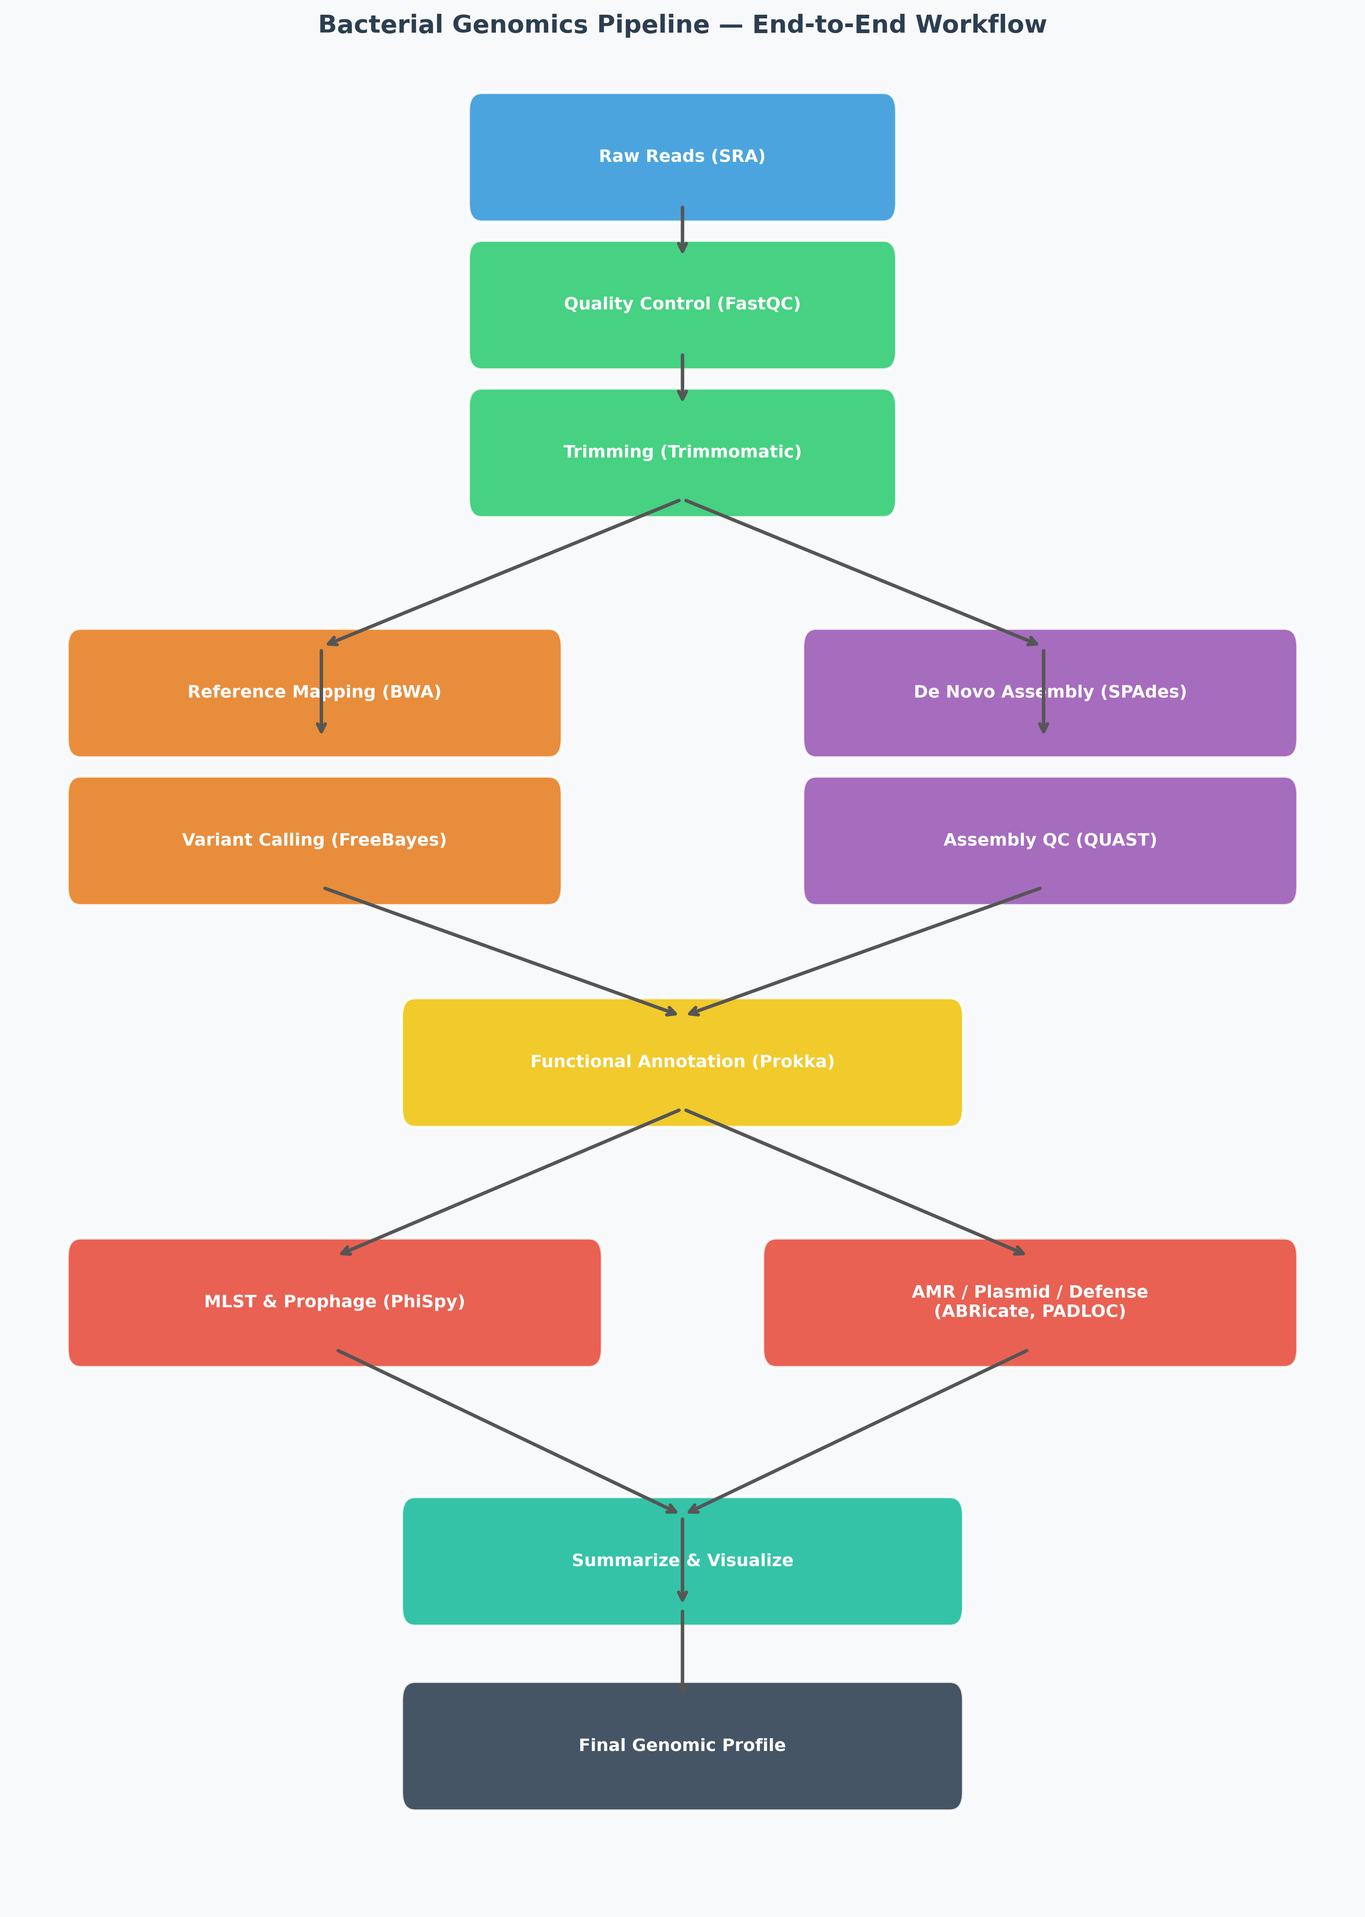
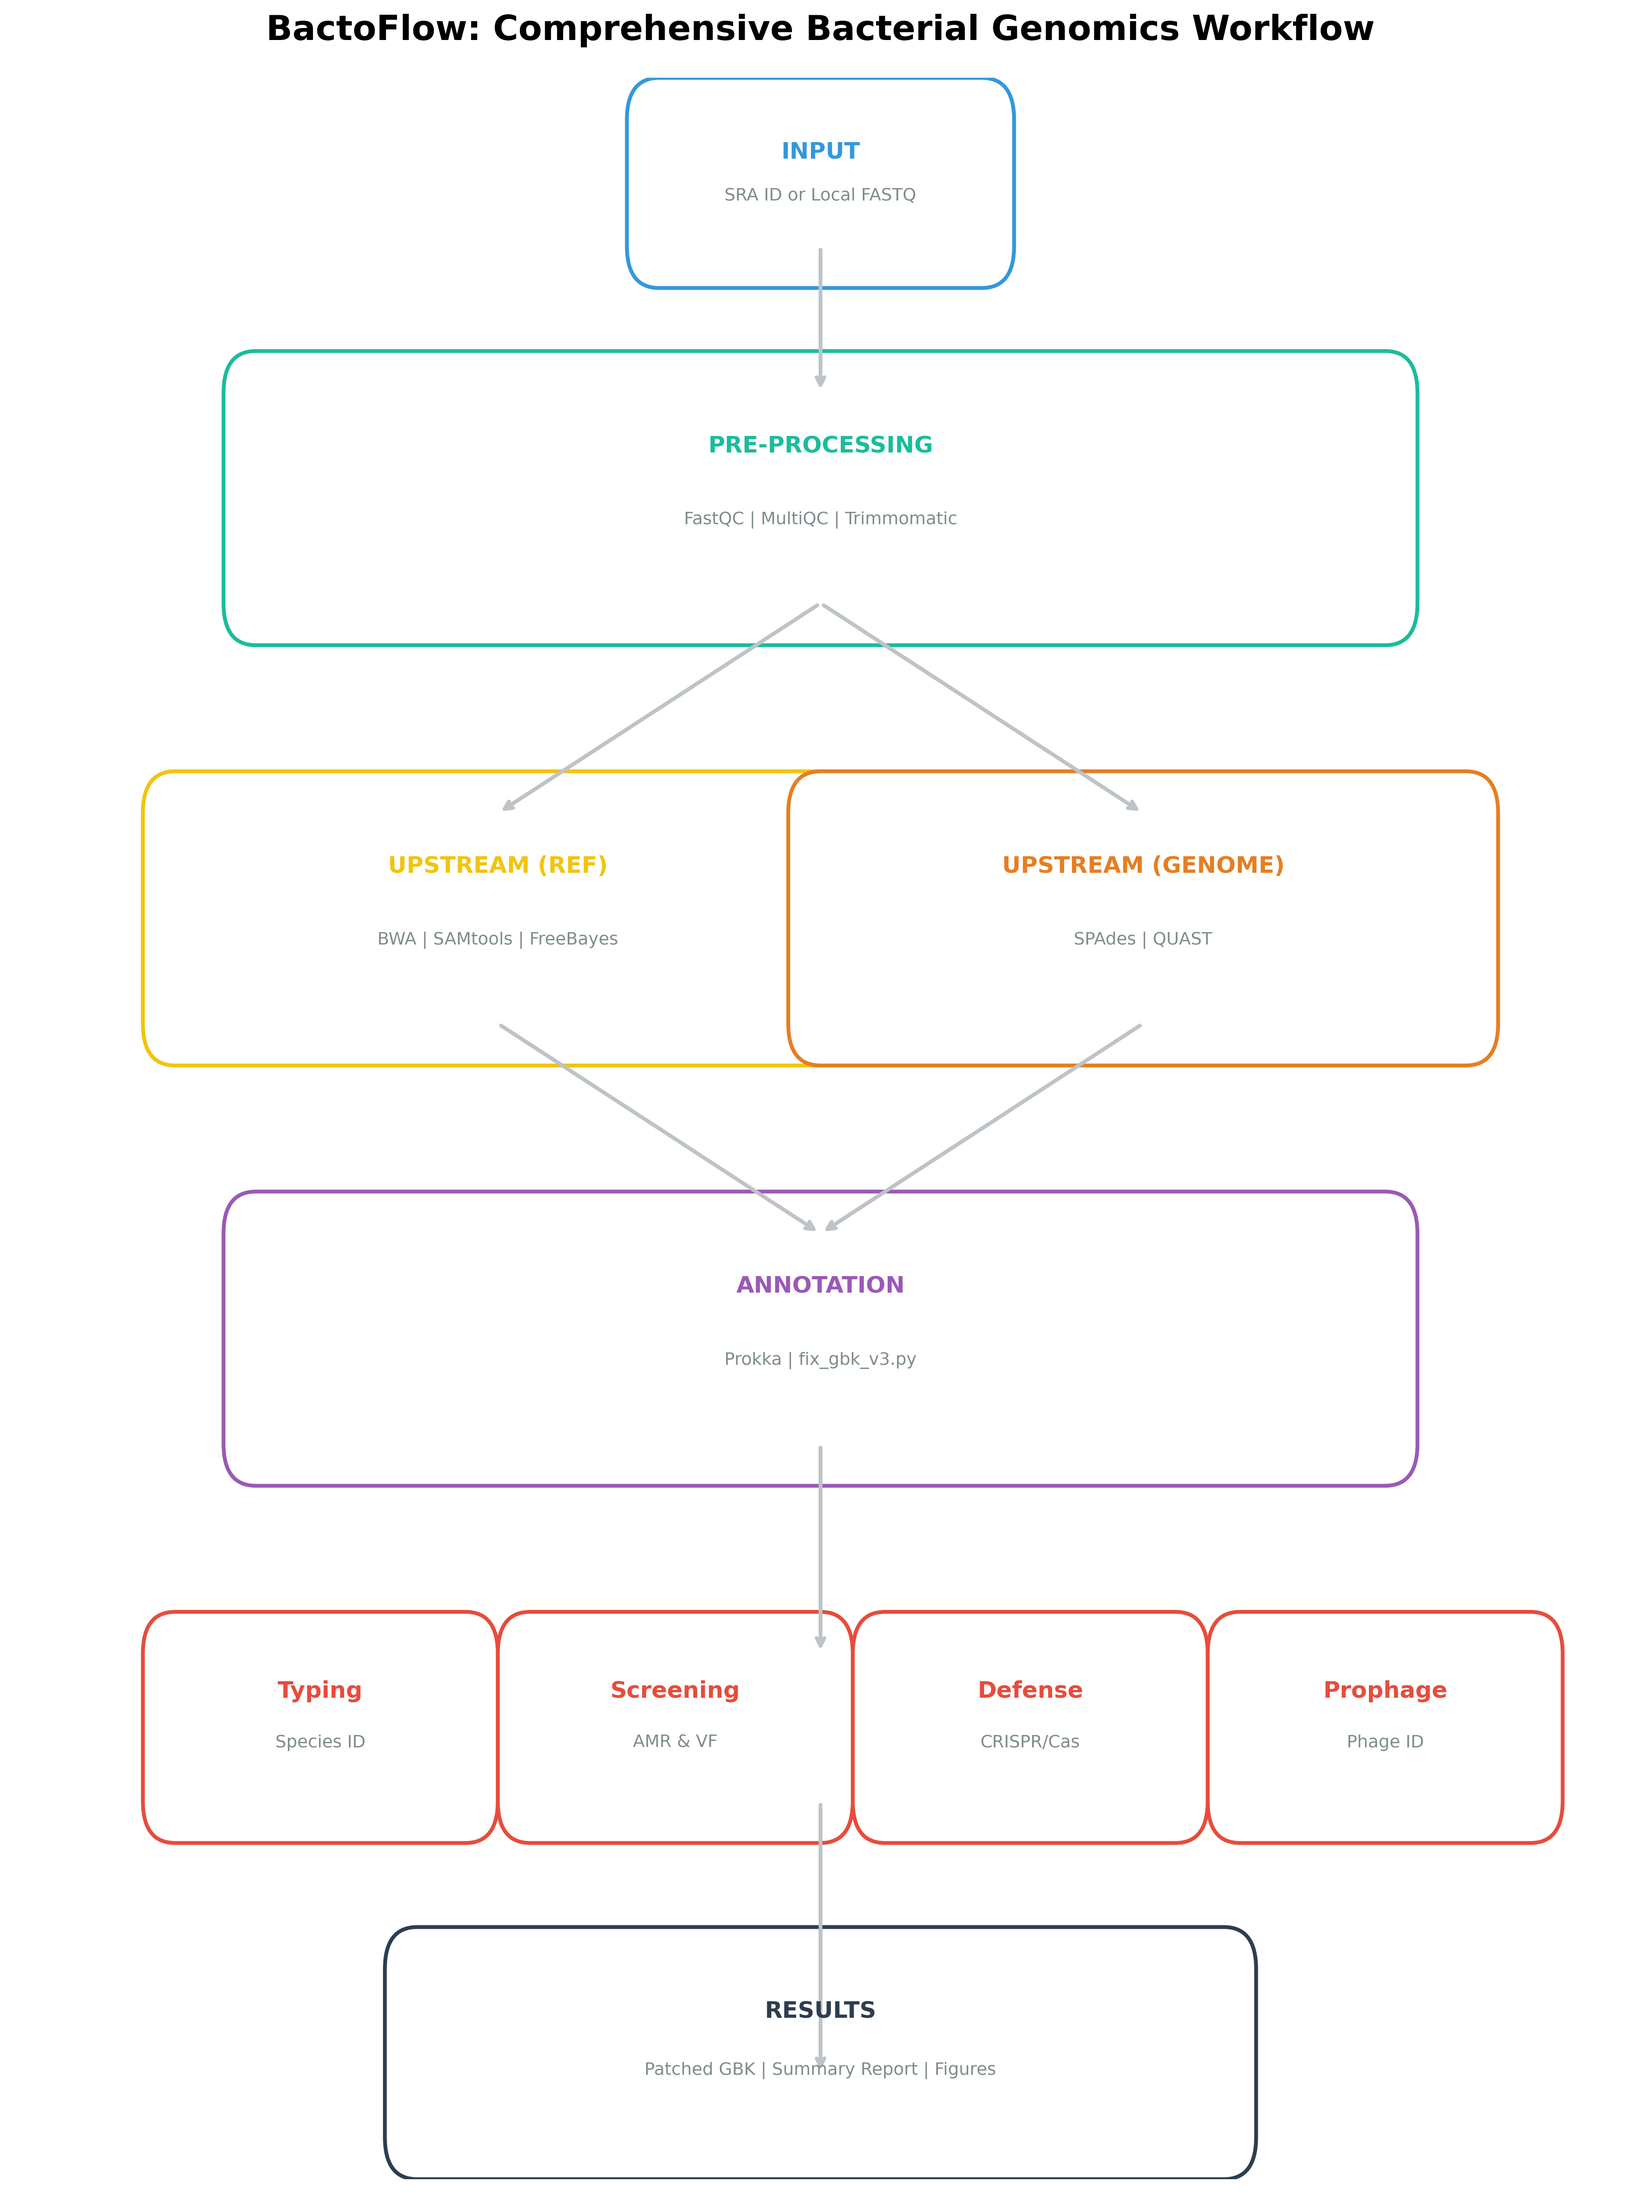
feat: upgrade to comprehensive high-resolution workflow diagram

diff --git a/visualization/generate_workflow_diagram.py b/visualization/generate_workflow_diagram.py
@@ -1,106 +1,79 @@
-"""
-generate_workflow_diagram.py
-Generates a visual diagram of the full bioinformatics workflow.
-  - Figure 0: Pipeline workflow diagram (saved to results/figures/)
-Works standalone or when called from RUN_PIPELINE.sh (uses PROJECT_ROOT env var).
-"""
-
-import os
-from pathlib import Path
 import matplotlib.pyplot as plt
 import matplotlib.patches as patches
+import os
 
-# ── Project Root Resolution ────────────────────────────────────────────────────
-_env_root = os.environ.get("PROJECT_ROOT", "")
-if _env_root:
-    PROJECT_ROOT = Path(_env_root).resolve()
-else:
-    PROJECT_ROOT = Path(__file__).resolve().parent.parent
+def generate_comprehensive_workflow(output_path):
+    fig, ax = plt.subplots(figsize=(12, 16))
+    ax.set_xlim(0, 100)
+    ax.set_ylim(0, 100)
+    ax.axis('off')
 
-FIGURES_DIR = PROJECT_ROOT / "results" / "figures"
-FIGURES_DIR.mkdir(parents=True, exist_ok=True)
+    # Color Palette
+    COLORS = {
+        'input': '#3498db',     # Blue
+        'qc': '#1abc9c',        # Teal
+        'mapping': '#f1c40f',   # Yellow
+        'assembly': '#e67e22',  # Orange
+        'annotation': '#9b59b6',# Purple
+        'downstream': '#e74c3c',# Red
+        'report': '#2c3e50'      # Dark Blue
+    }
 
-
-def draw_workflow() -> None:
-    fig, ax = plt.subplots(figsize=(10, 14))
-
-    # (x, y, width, height, label, fill_color)
-    boxes = [
-        (0.35, 0.92, 0.30, 0.05, "Raw Reads (SRA)",             "#3498db"),
-        (0.35, 0.84, 0.30, 0.05, "Quality Control (FastQC)",     "#2ecc71"),
-        (0.35, 0.76, 0.30, 0.05, "Trimming (Trimmomatic)",       "#2ecc71"),
-        # --- parallel paths ---
-        (0.05, 0.63, 0.35, 0.05, "Reference Mapping (BWA)",      "#e67e22"),
-        (0.60, 0.63, 0.35, 0.05, "De Novo Assembly (SPAdes)",    "#9b59b6"),
-        (0.05, 0.55, 0.35, 0.05, "Variant Calling (FreeBayes)",  "#e67e22"),
-        (0.60, 0.55, 0.35, 0.05, "Assembly QC (QUAST)",          "#9b59b6"),
-        # --- converge ---
-        (0.30, 0.43, 0.40, 0.05, "Functional Annotation (Prokka)","#f1c40f"),
-        # --- downstream ---
-        (0.05, 0.30, 0.38, 0.05, "MLST & Prophage (PhiSpy)",     "#e74c3c"),
-        (0.57, 0.30, 0.38, 0.05, "AMR / Plasmid / Defense\n(ABRicate, PADLOC)", "#e74c3c"),
-        # --- final ---
-        (0.30, 0.16, 0.40, 0.05, "Summarize & Visualize",        "#1abc9c"),
-        (0.30, 0.06, 0.40, 0.05, "Final Genomic Profile",        "#2c3e50"),
-    ]
-
-    for x, y, w, h, label, color in boxes:
-        rect = patches.FancyBboxPatch(
-            (x, y), w, h,
-            boxstyle="round,pad=0.01",
-            linewidth=1.5, edgecolor="white",
-            facecolor=color, alpha=0.88
-        )
+    def draw_box(x, y, w, h, text, color, title=None, subtitle=None):
+        rect = patches.FancyBboxPatch((x, y), w, h, boxstyle="round,pad=2", 
+                                      linewidth=2, edgecolor=color, facecolor='white', zorder=2)
         ax.add_patch(rect)
-        ax.text(x + w / 2, y + h / 2, label,
-                ha="center", va="center",
-                fontweight="bold", fontsize=9, color="white",
-                wrap=True)
+        if title:
+            ax.text(x + w/2, y + h*0.75, title, ha='center', va='center', fontweight='bold', fontsize=12, color=color)
+            ax.text(x + w/2, y + h*0.4, subtitle, ha='center', va='center', fontsize=9, color='#7f8c8d')
+        else:
+            ax.text(x + w/2, y + h/2, text, ha='center', va='center', fontweight='bold', fontsize=11)
 
-    # Arrows
-    ap = dict(arrowstyle="->", lw=1.8, color="#555555")
-    arrows = [
-        # Top straight section
-        ((0.50, 0.89), (0.50, 0.92)),
-        ((0.50, 0.81), (0.50, 0.84)),
-        # Split at trimming
-        ((0.23, 0.68), (0.50, 0.76)),
-        ((0.77, 0.68), (0.50, 0.76)),
-        # Down each branch
-        ((0.23, 0.63), (0.23, 0.68)),
-        ((0.77, 0.63), (0.77, 0.68)),
-        # Converge to Prokka
-        ((0.50, 0.48), (0.23, 0.55)),
-        ((0.50, 0.48), (0.77, 0.55)),
-        # Prokka to downstream
-        ((0.24, 0.35), (0.50, 0.43)),
-        ((0.76, 0.35), (0.50, 0.43)),
-        # Downstream to summarize
-        ((0.50, 0.21), (0.24, 0.30)),
-        ((0.50, 0.21), (0.76, 0.30)),
-        # Summarize to final
-        ((0.50, 0.16), (0.50, 0.21)),
-        ((0.50, 0.11), (0.50, 0.16)),
-    ]
-    for (x2, y2), (x1, y1) in arrows:
-        ax.annotate("", xy=(x2, y2), xytext=(x1, y1), arrowprops=ap)
+    # 1. INPUT
+    draw_box(40, 92, 20, 6, "RAW DATA", COLORS['input'], "INPUT", "SRA ID or Local FASTQ")
+    
+    # Arrow Input to QC
+    ax.annotate('', xy=(50, 85), xytext=(50, 92), arrowprops=dict(arrowstyle='->', lw=2, color='#bdc3c7'))
 
-    ax.set_xlim(0, 1)
-    ax.set_ylim(0.0, 1.0)
-    ax.set_facecolor("#f8f9fa")
-    fig.patch.set_facecolor("#f8f9fa")
-    ax.axis("off")
-    ax.set_title(
-        "Bacterial Genomics Pipeline — End-to-End Workflow",
-        fontsize=13, fontweight="bold", pad=12, color="#2c3e50"
-    )
+    # 2. QC BLOCK
+    draw_box(15, 75, 70, 10, "QC & TRIMMING", COLORS['qc'], "PRE-PROCESSING", "FastQC | MultiQC | Trimmomatic")
+    
+    # 3. SPLIT PATH (Mapping vs Assembly)
+    ax.annotate('', xy=(30, 65), xytext=(50, 75), arrowprops=dict(arrowstyle='->', lw=2, color='#bdc3c7'))
+    ax.annotate('', xy=(70, 65), xytext=(50, 75), arrowprops=dict(arrowstyle='->', lw=2, color='#bdc3c7'))
+
+    # 4. MAPPING
+    draw_box(10, 55, 40, 10, "VARIANT ANALYSIS", COLORS['mapping'], "UPSTREAM (REF)", "BWA | SAMtools | FreeBayes")
+    
+    # 5. ASSEMBLY
+    draw_box(50, 55, 40, 10, "DE NOVO ASSEMBLY", COLORS['assembly'], "UPSTREAM (GENOME)", "SPAdes | QUAST")
+
+    # 6. REJOIN AT ANNOTATION
+    ax.annotate('', xy=(50, 45), xytext=(30, 55), arrowprops=dict(arrowstyle='->', lw=2, color='#bdc3c7'))
+    ax.annotate('', xy=(50, 45), xytext=(70, 55), arrowprops=dict(arrowstyle='->', lw=2, color='#bdc3c7'))
+
+    # 7. ANNOTATION
+    draw_box(15, 35, 70, 10, "GENOME ANNOTATION", COLORS['annotation'], "ANNOTATION", "Prokka | fix_gbk_v3.py")
+
+    # 8. DOWNSTREAM GRID
+    ax.annotate('', xy=(50, 25), xytext=(50, 35), arrowprops=dict(arrowstyle='->', lw=2, color='#bdc3c7'))
+    
+    # Mini boxes for downstream
+    y_ds = 18
+    draw_box(10, y_ds, 18, 7, "MLST", COLORS['downstream'], "Typing", "Species ID")
+    draw_box(32, y_ds, 18, 7, "ABRicate", COLORS['downstream'], "Screening", "AMR & VF")
+    draw_box(54, y_ds, 18, 7, "PADLOC", COLORS['downstream'], "Defense", "CRISPR/Cas")
+    draw_box(76, y_ds, 18, 7, "PhiSpy", COLORS['downstream'], "Prophage", "Phage ID")
+
+    # 9. FINAL STEP
+    ax.annotate('', xy=(50, 5), xytext=(50, 18), arrowprops=dict(arrowstyle='->', lw=2, color='#bdc3c7'))
+    draw_box(25, 2, 50, 8, "FINAL OUTPUTS", COLORS['report'], "RESULTS", "Patched GBK | Summary Report | Figures")
+
+    plt.title("BactoFlow: Comprehensive Bacterial Genomics Workflow", fontsize=18, fontweight='bold', pad=20)
     plt.tight_layout()
-
-    out = FIGURES_DIR / "figure0_workflow_diagram.png"
-    plt.savefig(out, dpi=300, bbox_inches="tight")
-    plt.close()
-    print(f"Workflow diagram saved → {out}")
-
+    plt.savefig(output_path, dpi=300, bbox_inches='tight')
+    print(f"Workflow diagram saved to: {output_path}")
 
 if __name__ == "__main__":
-    draw_workflow()
+    os.makedirs("results/figures", exist_ok=True)
+    generate_comprehensive_workflow("results/figures/figure0_workflow_diagram.png")
